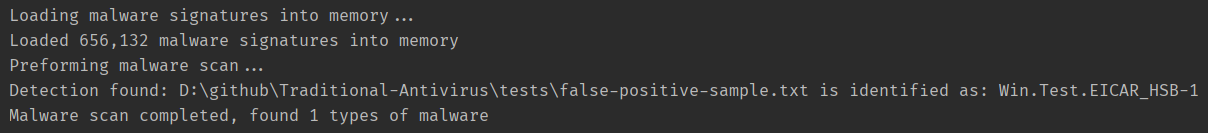
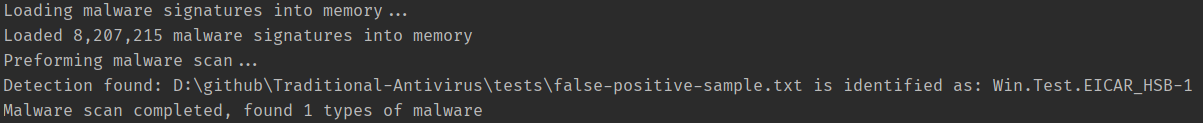
Fixed Counter

diff --git a/src/main/java/com/konloch/clamav/database/signature/DetectedFileSignatureDatabase.java b/src/main/java/com/konloch/clamav/database/signature/DetectedFileSignatureDatabase.java
@@ -26,6 +26,7 @@ public class DetectedFileSignatureDatabase implements MalwareSignatureDatabase
 {
 	//TODO replace with SQLite
 	private final HashMap<Long, ArrayList<FileSignature>> fileSizeLookup = new HashMap<>();
+	private int totalCount = 0;
 	
 	@Override
 	public void load()
@@ -38,7 +39,7 @@ public class DetectedFileSignatureDatabase implements MalwareSignatureDatabase
 		loadMDB("daily/daily.mdb");
 		loadHSB("daily/daily.hsb");
 		
-		System.out.println("Loaded " + NumberFormat.getInstance().format(fileSizeLookup.size()) + " malware signatures into memory");
+		System.out.println("Loaded " + NumberFormat.getInstance().format(totalCount) + " malware signatures into memory");
 	}
 	
 	private void loadMDB(String file)
@@ -59,6 +60,7 @@ public class DetectedFileSignatureDatabase implements MalwareSignatureDatabase
 					
 					ArrayList<FileSignature> fileSignatures = fileSizeLookup.get(fileSignature.length);
 					fileSignatures.add(fileSignature);
+					totalCount++;
 				}
 			}
 		}
@@ -91,6 +93,7 @@ public class DetectedFileSignatureDatabase implements MalwareSignatureDatabase
 					
 					ArrayList<FileSignature> fileSignatures = fileSizeLookup.get(fileSignature.length);
 					fileSignatures.add(fileSignature);
+					totalCount++;
 				}
 			}
 		}
